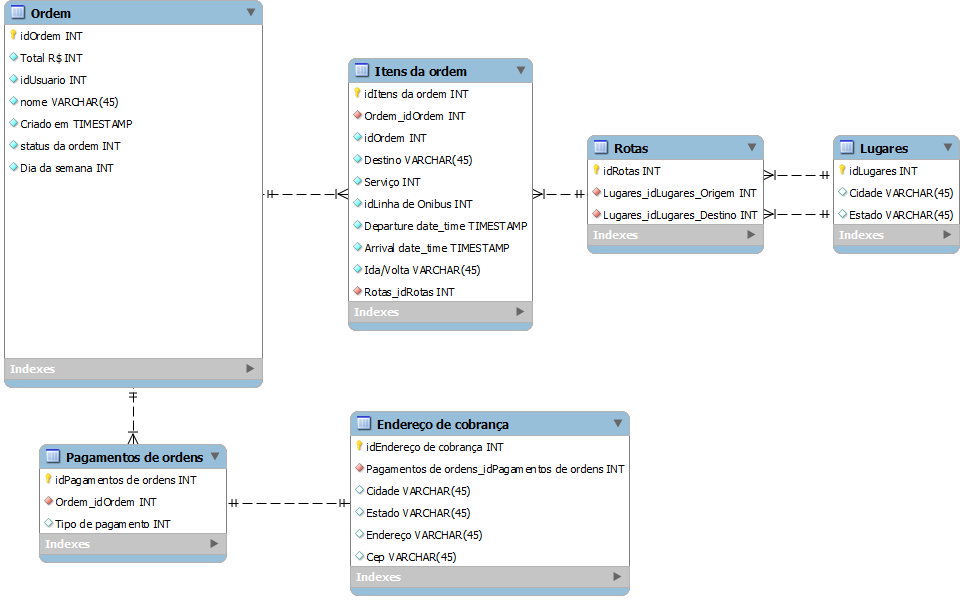
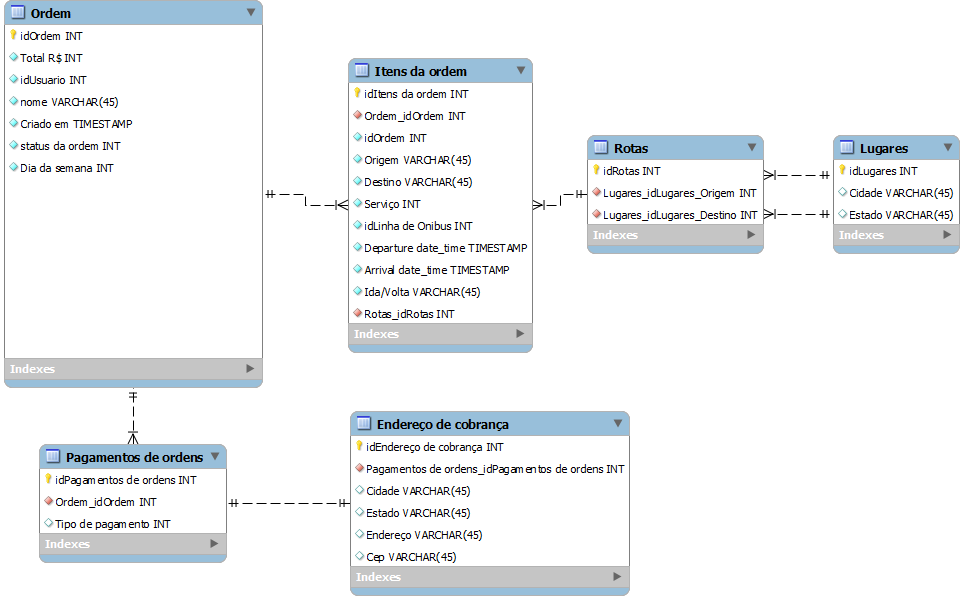
reuniao e banco de dados..png

Changed region(s): [[0.3385, 0.2472, 0.5846, 0.587]]

diff --git a/latex/reuniao.tex b/latex/reuniao.tex
@@ -1,0 +1,85 @@
+%!TEX root = index.tex
+\chapter[Reunião com a Click Bus]{Reunião com a Click Bus}
+\label{chap:Reuniao_com_a_click_bus}
+
+Desde o início do projeto tinhamos a intenção de trabalhar em parceria com uma empresa para que nosso trabalho fosse implementado para que pudessemos mensurar sua efetividade em um ambiente real. Para isso fizemos contato com a Click Bus, uma loja online que vende passagens de ônibus, hoje a maior do país.
+
+Na reunião que tivemos foi discutido o que nos seria fornecido para o desenvolvimento do projeto e o que deveríamos devolver ao final. Foi acordado que teríamos acesso ao banco de dados com alguns dos dados codificados para preservar a identidade de seus clientes e para que estes dados não fossem usados por outras empresas.
+
+Nos foi mostrada a estrutura do banco de dados usado na empresa. O banco de dados está atualmente dividido em  seis diferentes tabelas:
+
+\begin{\begin{itemize}
+	\item Ordem
+	\item Itens da ordem
+	\item Rotas
+	\item Lugares
+	\item Pagamentos de ordens
+	\item Endereço de cobrança
+\end{itemize}
+
+A tabela Ordem é composta por 7 campos:
+
+\begin{itemize}
+	\item idOrdem, o identificador único da ordem de compra
+	\item Total Reais, o valor gasto na ordem
+	\item idUsuario, neste caso o email do usuario
+	\item nome, nome do usuario
+	\item Criado em, data em que o pedido foi feito
+	\item Status da ordem, com relação a pagamento e processamento do pedido
+	\item Dia da semana, dia da semana em que a ordem foi feita
+\end{itemize}
+
+Itens da ordem é composta por 10 campos: 
+
+\begin{itemize}
+	\item idItens da ordem, é o identificador único do item
+	\item Ordem_idOrdem, identificador de a qual ordem o item pertence, referencia a tabela Ordem
+	\item Origem, cidade de origem
+	\item Destino, cidade de destino
+	\item Serviço, Leito, executivo ou comum
+	\item idLinha de Onibus, qual a empresa que opera a viagem
+	\item Departure date_time, dia e hora de saída
+	\item Arrival date_time, dia e hora de chegada
+	\item Ida/Volta, viagem de ida ou de volta
+	\item Rotas_idRotas, identificador da rota a ser realizada, referencia a tabela Rotas
+\end{itemize}
+
+Rotas é composta de 3 itens:
+
+\begin{itemize}
+	\item idRotas, identificador único de rota
+	\item Lugares_idLugares_Origem, Lugar de origem, referencia a tabela Lugares
+	\item Lugares_idLugares_Destino, Lugar de destino, referencia a tabela Lugares
+\end{itemize}
+
+Lugares é composta por 3 itens:
+
+\begin{itemize}
+	\item  idLugares, identificador único de lugar
+	\item Cidade, casos especiais ocorrem quando a cidade possui mais de uma estação rodoviária
+	\item Estado
+\end{itemize}
+
+Pagamentos de ordens, 3 itens:
+
+\begin{itemize}
+	\item idPagamentos de ordens, identificador único de pagamento
+	\item Ordem_idOrdem, referencia a qual ordem pertence o pagamento
+	\item Tipo de pagamento, modo de pagamento, cartão de crédito etc.
+\end{itemize}
+
+A última tabela, Endereço de cobra consiste em 6 campos:
+\begin{itemize}
+	\item idEndereço de cobrança, identificador de cobrança
+	\item Pagamentos de ordens_idPagamentos de ordem, referencia a qual pagamento o endereço pertence
+	\item Cidade
+	\item Estado
+	\item Endereço
+	\item Cep 
+\end{itemize}
+
+Os relacionamentos entre tabelas estão demonstrados na figura abaixo.
+
+Inserir Figura aqui
+
+Outro importante tópico conversado em reunião foi a questão da importância do timing da recomendação. O sistema deve não só prever qual será a próxima viagem do usuário, mas quando esta se dará e quanto tempo antes da viagem devemos oferecê-la ao cliente. Foi feito um estudo sobre quando os cliente costumam comprar as passagens pela Click Bus e nos foi informado que 60 por cento das passagens são compradas 3 dias antes da data de embarque. Então é importante que a sugestão seja feita antes que o cliente compre a passagem, porém perto o bastante da data de embarque para que esse tenha interesse.
